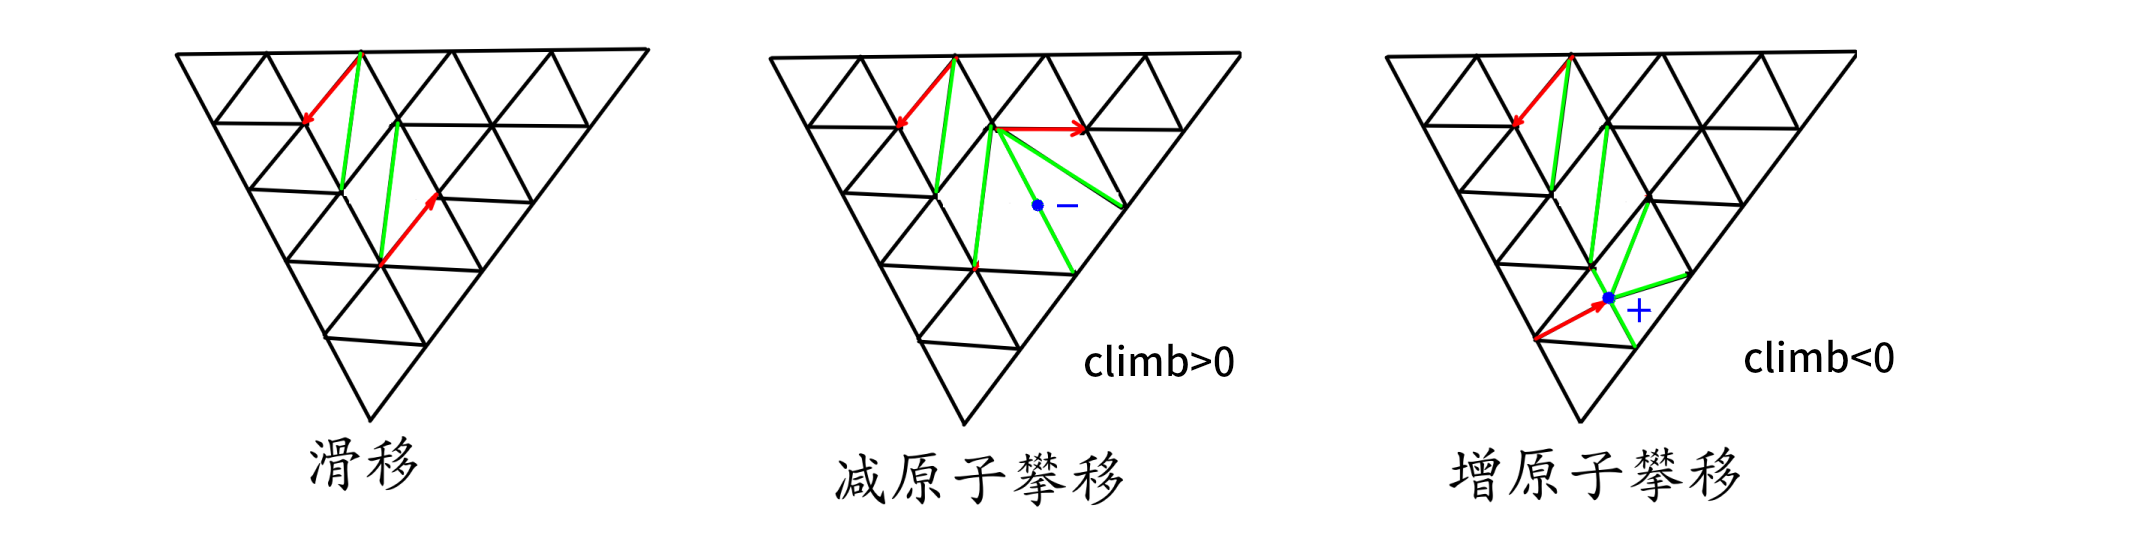
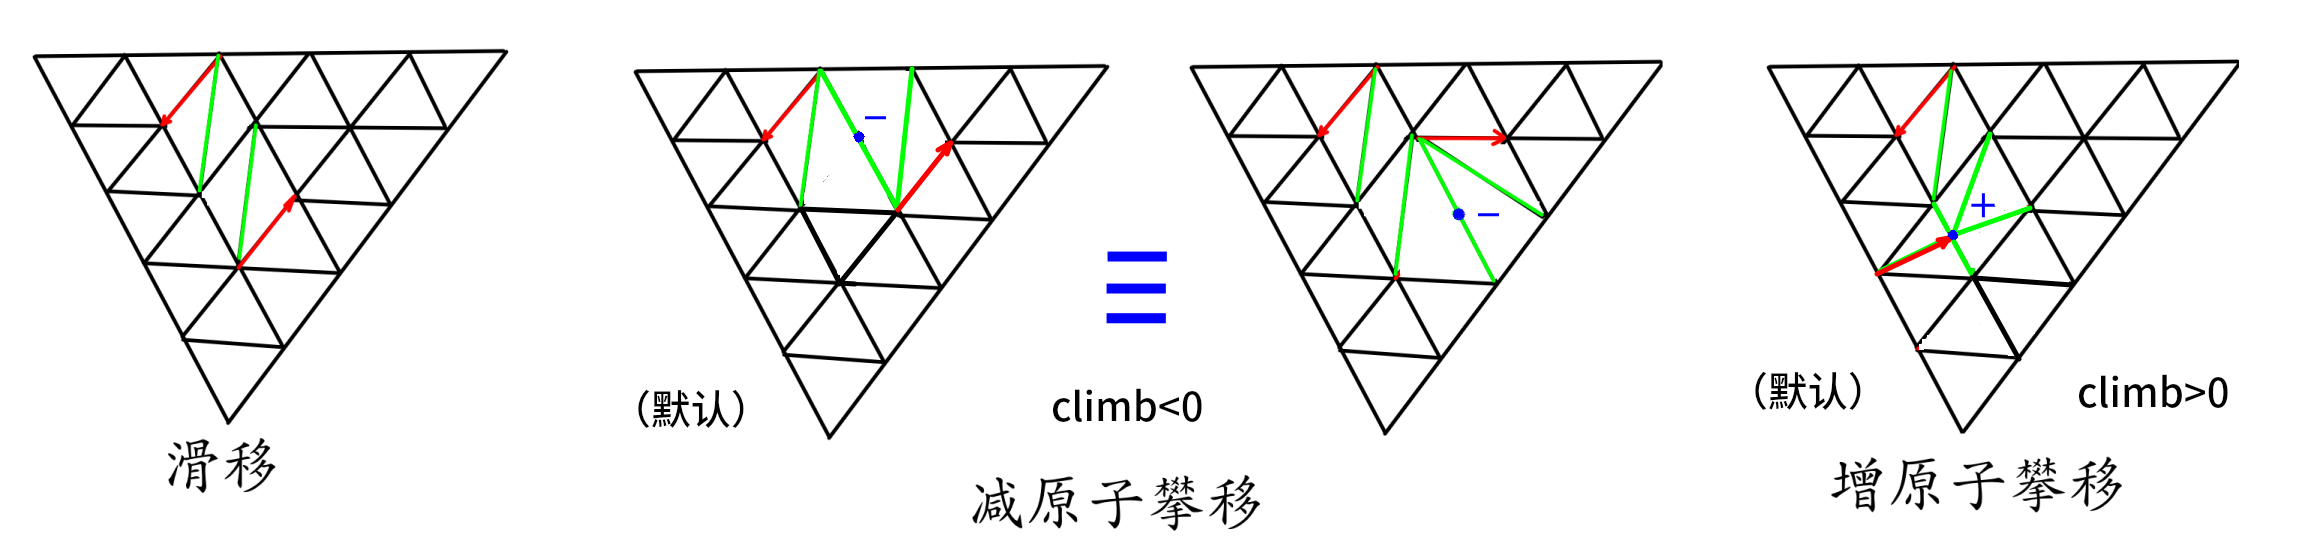
完成位错

diff --git a/model.cpp b/model.cpp
@@ -4,9 +4,10 @@
 #include "molecule.h"
 #include "model.h"
 
+// 保证增原子攀移时不会越界，同时防止减原子攀移初始时越界
 #define NUM ppara_in.m*ppara_in.n*ppara_in.repeat
-model::model(para ppara_in): molecule(NUM, NUM*3), ppara(ppara_in),
-        adjacents(NUM), adjacents_id(NUM) {
+model::model(para ppara_in): molecule(NUM, NUM*3+3*std::abs(ppara_in.climb)),
+        ppara(ppara_in), adjacents(NUM), adjacents_id(NUM) {
     generate_nodes();
     generate_bonds();
     glide_climb();
@@ -146,31 +147,51 @@ void model::glide_climb() {
         for (int i=0; i < std::abs(this->ppara.glide); i++) {
             from = {flat(bn), flat(bn + center)};
             to = {flat(bn + left), flat(bn + right)};
-            // 交换两根键，原 replace_bond 函数
-            for (int i=0; i<this->bonds.size(); i++) {
-                if (this->bonds[i] == from) {
-                    this->bonds[i] = to;
-                    break;
-                }
-            }
+            this->bonds.replace(from, to);
             bn = bn + go;
         }
     }
     
-    // 攀移
-    if (this->ppara.climb > 0) {
+    // 攀移，尽量增大 repeat（大于等于 3），避免与最后几个原子重合造成隐患
+    if (this->ppara.climb < 0) {
         // 减原子攀移
-        for (int i=0; i<this->ppara.climb; i++) {
-            this->nodes[flat(bn + other)] = this->nodes.pop_back();
-            
-        }
-    } else if (this->ppara.climb < 0) {
-        // 增原子攀移
         for (int i=0; i<-this->ppara.climb; i++) {
-
+            this->nodes[flat(bn + other)] = this->nodes.pop_back();
+            bn = bn + other;
+            this->bonds.remove({flat(bn), flat(bn + left)});
+            this->bonds.remove({flat(bn), flat(bn - left)});
+            this->bonds.remove({flat(bn), flat(bn + right)});
+            this->bonds.remove({flat(bn), flat(bn - right)});
+            this->bonds.replace({flat(bn), flat(bn + center)},
+                {flat(bn + go), flat(bn - go)});
+            this->bonds.push_back({flat(bn+go), flat(bn+other)});
+            for (int i=0; i<this->bonds.size(); i++) {
+                if (this->bonds[i].a == this->nodes.size()) {
+                    this->bonds[i].a = flat(bn);
+                }
+            }
+            bn = bn + go;
         }
-    }
+        this->pdis_pair.end[0] = flat(bn);
+        this->pdis_pair.end[1] = flat(bn + other);
 
-    this->pdis_pair.end[0] = flat(bn);
-    this->pdis_pair.end[1] = flat(bn + other);
+    } else if (this->ppara.climb > 0) {
+        // 增原子攀移
+        int last;
+        for (int i=0; i<-this->ppara.climb; i++) {
+            this->nodes.push_back(average(this->nodes[flat(bn)],
+                this->nodes[flat(bn-go)]));
+            last = this->nodes.size()-1;
+            this->bonds.push_back({last, flat(bn + other)});
+            // 不知为什么不能连写
+            pos2d temp = bn + other;
+            this->bonds.push_back({last, flat(temp - go)});
+            this->bonds.push_back({last, flat(bn - center)});
+            this->bonds.replace({flat(bn), flat(bn - go)},
+                {last, flat(bn - go)});
+            bn = bn - center;
+        }
+        this->pdis_pair.end[0] = flat(bn);
+        this->pdis_pair.end[1] = last;
+    }
 }

diff --git a/vector.h b/vector.h
@@ -54,6 +54,25 @@ namespace nano {
         inline T& operator[](int i) { return data[i]; }
         inline int size() { return this->len; }
         
+        // 交换两个
+        void replace(T from, T to) {
+            for (int i=0; i<this->len; i++) {
+                if (this->data[i] == from) {
+                    this->data[i] = to;
+                    break;
+                }
+            }
+        }
+
+        // 移除
+        void remove(T from) {
+            for (int i=0; i<this->len; i++) {
+                if (this->data[i] == from) {
+                    this->data[i] = this->data[--len];
+                    break;
+                }
+            }
+        }
         
         #ifdef USE_CUDA
         // 拷贝至显存

diff --git a/main.cpp b/main.cpp
@@ -19,7 +19,6 @@
     int glide = 3, climb = 3;   // 位错滑移和攀移的步数
     int repeat = 3;             // 模型重复的次数（增长模型）
     double k = 1, tau = 3e-7;   // 能量参数（第一项键能、第二项曲率）
-    bool far = true;            // 攀移时箭头是否远离
 
 运行时参数：
     double step = 2e-5;      // 更新的步长，就是向梯度方向前进多少

diff --git a/model.h b/model.h
@@ -13,7 +13,7 @@
 #include "molecule.h"
 
 // 参数默认值
-#define default_para {13,13,0.1,1,3,3,3,1,3e-7,true}
+#define default_para {13,13,0.1,1,3,3,3,1,3e-7}
 
 class pos2d {
     friend pos2d operator+(pos2d &p1, pos2d &p2) {
@@ -34,7 +34,6 @@ typedef struct {
     int glide, climb;
     int repeat;
     double k, tau;
-    bool far;
 } para;
 
 inline node average(node p1, node p2) {

diff --git a/README.md b/README.md
@@ -67,7 +67,6 @@ fout.close();                   // 保存 dump 文件
 |`int glide = 3, climb = 3`  | 位错滑移和攀移的步数 |
 |`int repeat = 3`            | 模型重复的次数（增长模型）|
 |`double k = 1, tau = 3e-7`  | 能量参数（第一项键能、第二项曲率）|
-|`bool far = true;`          | 攀移时箭头是否远离 |
 
 运行时参数：
 
